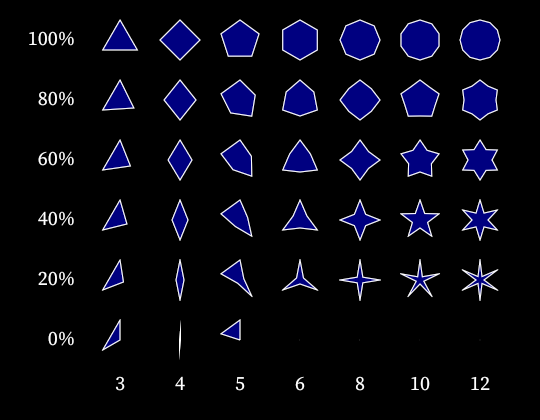
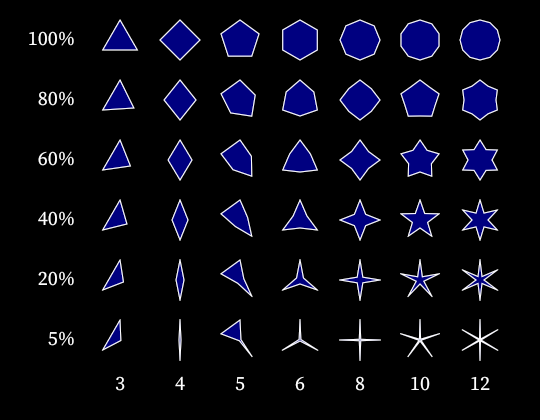
Update IVG documentation to version 3 and revise examples
Updated all code examples and references in the IVG documentation (HTML and Markdown) from IVG-2 to IVG-3. Clarified the differences between IVG-1 and IVG-2, and made minor corrections to example code and descriptions. Also updated the starExample.png image.

diff --git a/docs/IVG Documentation.html b/docs/IVG Documentation.html
@@ -244,7 +244,7 @@ and skewing.</p>
 <p>To give you a better idea of how <em>IVG</em> works, here’s an
 example of a simple source code that creates a smiley face:</p>
 <pre><code>// IVG and ImpD version.
-format IVG-2 requires:ImpD-1
+format IVG-3 requires:ImpD-1
 
 // Set the canvas bounds to 400x400 pixels.
 bounds 0,0,400,400
@@ -282,14 +282,14 @@ to create dynamic and interactive graphics.</p>
 <p>The <em>ImpD format</em> used in this documentation is
 <code>IVG-2</code>. Therefore, the <code>format</code> instruction
 should be as follows:</p>
-<pre><code>format IVG-2 requires:ImpD-1</code></pre>
+<pre><code>format IVG-3 requires:ImpD-1</code></pre>
 <p>Notice that <em>ImpD</em> is case-insensitive, but in this document,
 we follow a convention where we have written “directives” (defining
 settings, etc.) in lowercase and drawing instructions in uppercase.</p>
 <h2 id="ivg-1-vs-ivg-2">IVG-1 vs IVG-2</h2>
-<p><code>IVG-1</code> covers core vector drawing, styling, text, and
-fonts. <code>IVG-2</code> extends the format with raster image support
-through <code>define image</code> and <code>IMAGE</code>.</p>
+<p><code>IVG-1</code> covers core vector drawing and styling.
+<code>IVG-2</code> adds text, fonts, and raster image support through
+<code>define image</code> and <code>IMAGE</code>.</p>
 <p>The interpreter processes both versions identically, but readers that
 only understand <code>IVG-1</code> will reject documents marked
 <code>IVG-2</code>.</p>
@@ -371,7 +371,7 @@ executing all transformations, resulting in efficient performance.
 However, it is important to note that large rescales may result in low
 image quality.</p>
 <p>Demonstration:</p>
-<pre><code>format IVG-2 requires:ImpD-1
+<pre><code>format IVG-3 requires:ImpD-1
 bounds 0,0,340,300
 options aa-gamma:1.5
 
@@ -458,7 +458,7 @@ PATH [move-to 20,20; bezier-to 40,20 80,60 100,80]</code></pre>
 <pre><code>PATH [move-to 20,20; arc-to 120,20 40,40]
 PATH [move-to 60,60; arc-sweep 60,100 180]</code></pre>
 <p>Using raw SVG data:</p>
-<pre><code>format IVG-2 requires:ImpD-1
+<pre><code>format IVG-3 requires:ImpD-1
 bounds 0,0,400,380
 
 // Wipe the canvas with a very dark purple
@@ -510,7 +510,7 @@ rounded corners. You specify the radius as a single value for all
 corners or as separate values for the x and y radius.</p></li>
 </ul>
 <p>Example:</p>
-<pre><code>format IVG-2 requires:ImpD-1
+<pre><code>format IVG-3 requires:ImpD-1
 bounds 0,0,300,80
 
 // Draw a dark blue rectangle.
@@ -545,7 +545,7 @@ for the star in degrees.</p></li>
 </ul>
 <p>This example shows the effect of varying the number of points and the
 proportion of <code>&lt;r2&gt;</code> to <code>&lt;r1&gt;</code>:</p>
-<pre><code>format IVG-2 requires:ImpD-1
+<pre><code>format IVG-3 requires:ImpD-1
 bounds 0,0,540,420
 options aa-gamma:1.5
 
@@ -562,7 +562,7 @@ counts = [3,4,5,6,8,10,12]
 
 // Loop through a list of &lt;r2&gt; to &lt;r1&gt; proportions.
 offset 60,0
-for r2 in:[100,80,60,40,20,0] [
+for r2 in:[100,80,60,40,20,5] [
     context [
         // Draw a label indicating the proportion on this row.
         TEXT at:15,45 $r2% anchor:right
@@ -609,7 +609,7 @@ next character would have been written.</p></li>
 <code>TEXT</code> draws a single line of text only.</p></li>
 </ul>
 <p>Demonstration:</p>
-<pre><code>FORMAT IVG-2 requires:ImpD-1
+<pre><code>FORMAT IVG-3 requires:ImpD-1
 options aa-gamma:1.5
 
 bounds 0,0,440,80
@@ -664,7 +664,7 @@ information. Note that <em>relative paint</em> is not allowed for this
 instruction.</li>
 </ul>
 <p>Example:</p>
-<pre><code>format IVG-2 requires:ImpD-1
+<pre><code>format IVG-3 requires:ImpD-1
 bounds 0,0,200,200
 
 // Wipe the full canvas with a radial rainbow gradient
@@ -691,7 +691,7 @@ properties, masks, transforms, and definitions are restored when the
 group ends.</p>
 <pre><code>context &lt;instructions&gt;</code></pre>
 <p>Demonstration:</p>
-<pre><code>format IVG-2 requires:ImpD-1
+<pre><code>format IVG-3 requires:ImpD-1
 bounds 0,0,300,300
 
 // Wipe the canvas with a gradient, to begin with.
@@ -769,7 +769,7 @@ they can be referred to by name and set with the <a
 href="#font"><code>font</code></a> directive, just like embedded
 fonts.</p>
 <p>Example:</p>
-<pre><code>format IVG-2 requires:ImpD-1
+<pre><code>format IVG-3 requires:ImpD-1
 
 // Embed a font called &quot;myEmbeddedFont&quot; with only 3 defined glyphs.
 define font myEmbeddedFont [
@@ -807,7 +807,7 @@ and https://en.wikipedia.org/wiki/Even-odd_rule. The default value is
 <code>non-zero</code>.</p></li>
 </ul>
 <p>Fill rule demonstration:</p>
-<pre><code>format IVG-2 requires:ImpD-1
+<pre><code>format IVG-3 requires:ImpD-1
 bounds 0,0,350,230
 
 // Setup style.
@@ -907,7 +907,7 @@ transparency.</p>
 <p>Initially, the pen (and font outline) is set to <code>none</code>,
 and the fill (and font color) to <code>#FF</code> (fully opaque).</p>
 <p>Demonstration:</p>
-<pre><code>format IVG-2 requires:ImpD-1
+<pre><code>format IVG-3 requires:ImpD-1
 bounds 0,0,310,320
 
 // Make a rotated striped background.
@@ -998,7 +998,7 @@ chosen with a formula that considers the current context transform, and
 the resolution is always an integer factor.</p></li>
 </ul>
 <p><code>aa-gamma</code> demonstration:</p>
-<pre><code>format IVG-2 requires:ImpD-1
+<pre><code>format IVG-3 requires:ImpD-1
 bounds 0,0,400,124
 
 // Draw a white rectangle on black background.
@@ -1025,7 +1025,7 @@ for gamma in:[0.6,0.7,0.8,0.9,1.0,1.2,1.5,2.0,3.0,4.0] [
 ]</code></pre>
 <p><img src="images/gammaDemo.png" /></p>
 <p><code>curve-quality</code> demonstration:</p>
-<pre><code>format IVG-2 requires:ImpD-1
+<pre><code>format IVG-3 requires:ImpD-1
 bounds 0,0,410,100
 WIPE white
 pen black
@@ -1043,7 +1043,7 @@ for quality in:[0.001 0.01 0.1 1.0 10.0] [
 ]</code></pre>
 <p><img src="images/curveQualityDemo.png" /></p>
 <p><code>pattern-resolution</code> demonstration:</p>
-<pre><code>format IVG-2 requires:ImpD-1
+<pre><code>format IVG-3 requires:ImpD-1
 bounds 0,0,320,100
 
 // Wipe the canvas with a dark grey color.
@@ -1116,7 +1116,7 @@ dash pattern at which the stroke begins.</p></li>
 </ul>
 <p>The initial pen is <code>none</code>. In other words, invisible.</p>
 <p>Demonstration of different stroke styles:</p>
-<pre><code>format IVG-2 requires:ImpD-1
+<pre><code>format IVG-3 requires:ImpD-1
 bounds 0,0,560,400
 
 // Wipe canvas and setup styles.
@@ -1218,7 +1218,7 @@ be used; it will be invisible.</p></li>
 predefined color names.</p></li>
 </ul>
 <p>Colors example:</p>
-<pre><code>format IVG-2 requires:ImpD-1
+<pre><code>format IVG-3 requires:ImpD-1
 bounds 0,0,500,380
 
 // Wipe canvas with a checkboard pattern and setup styles.
@@ -1300,7 +1300,7 @@ note that you must set the stops in ascending order of the
 <code>&lt;number&gt;</code> positions.</p></li>
 </ul>
 <p>Gradient demonstration:</p>
-<pre><code>format IVG-2 requires:IMPD-1
+<pre><code>format IVG-3 requires:IMPD-1
 bounds 0,0,500,500
 
 // Set font style.
@@ -1372,7 +1372,7 @@ transparency and 1 is full opacity. Alternatively, you can use
 hexadecimal values <code>#00</code> to <code>#FF</code>.</p></li>
 </ul>
 <p>Demonstration:</p>
-<pre><code>format IVG-2 requires:ImpD-1
+<pre><code>format IVG-3 requires:ImpD-1
 bounds 0,0,400,300
 
 // Light gray background.
@@ -1452,7 +1452,7 @@ the transformation. By default, the anchor point is the origin
 (0,0).</p></li>
 </ul>
 <p>Demonstration:</p>
-<pre><code>format IVG-2 requires:ImpD-1
+<pre><code>format IVG-3 requires:ImpD-1
 bounds 0,0,310,240
 
 wipe #403020

diff --git a/docs/IVG Documentation.md b/docs/IVG Documentation.md
@@ -49,7 +49,7 @@ strokes, as well as applying transformations like scaling, rotating, and skewing
 To give you a better idea of how _IVG_ works, here's an example of a simple source code that creates a smiley face:
 
 	// IVG and ImpD version.
-	format IVG-2 requires:ImpD-1
+	format IVG-3 requires:ImpD-1
 	
 	// Set the canvas bounds to 400x400 pixels.
 	bounds 0,0,400,400
@@ -84,15 +84,15 @@ It will cover how to use variables and control flow statements to create dynamic
 
 The _ImpD format_ used in this documentation is `IVG-2`. Therefore, the `format` instruction should be as follows:
 
-	format IVG-2 requires:ImpD-1
+	format IVG-3 requires:ImpD-1
 
 Notice that _ImpD_ is case-insensitive, but in this document, we follow a convention where we have written "directives"
 (defining settings, etc.) in lowercase and drawing instructions in uppercase.
 
 ## IVG-1 vs IVG-2
 
-`IVG-1` covers core vector drawing, styling, text, and fonts.
-`IVG-2` extends the format with raster image support through `define image` and `IMAGE`.
+`IVG-1` covers core vector drawing and styling.
+`IVG-2` adds text, fonts, and raster image support through `define image` and `IMAGE`.
 
 The interpreter processes both versions identically, but readers that only understand `IVG-1`
 will reject documents marked `IVG-2`.
@@ -174,7 +174,7 @@ it is important to note that large rescales may result in low image quality.
 
 Demonstration:
 
-	format IVG-2 requires:ImpD-1
+	format IVG-3 requires:ImpD-1
 	bounds 0,0,340,300
 	options aa-gamma:1.5
 	
@@ -272,7 +272,7 @@ Arcs:
 
 Using raw SVG data:
 
-	format IVG-2 requires:ImpD-1
+	format IVG-3 requires:ImpD-1
 	bounds 0,0,400,380
 
 	// Wipe the canvas with a very dark purple
@@ -335,7 +335,7 @@ Syntax:
 
 Example:
 
-	format IVG-2 requires:ImpD-1
+	format IVG-3 requires:ImpD-1
 	bounds 0,0,300,80
 	
 	// Draw a dark blue rectangle.
@@ -371,7 +371,7 @@ Both comma-separated and space-separated forms are accepted.
 
 This example shows the effect of varying the number of points and the proportion of `<r2>` to `<r1>`:
 
-	format IVG-2 requires:ImpD-1
+	format IVG-3 requires:ImpD-1
 	bounds 0,0,540,420
 	options aa-gamma:1.5
 	
@@ -438,7 +438,7 @@ Syntax:
 
 Demonstration:
 
-	FORMAT IVG-2 requires:ImpD-1
+	FORMAT IVG-3 requires:ImpD-1
 	options aa-gamma:1.5
 	
 	bounds 0,0,440,80
@@ -495,7 +495,7 @@ Syntax:
 
 Example:
 
-	format IVG-2 requires:ImpD-1
+	format IVG-3 requires:ImpD-1
 	bounds 0,0,200,200
 	
 	// Wipe the full canvas with a radial rainbow gradient
@@ -531,7 +531,7 @@ group ends.
 
 Demonstration:
 
-	format IVG-2 requires:ImpD-1
+	format IVG-3 requires:ImpD-1
 	bounds 0,0,300,300
 	
 	// Wipe the canvas with a gradient, to begin with.
@@ -607,7 +607,7 @@ application, as they can be referred to by name and set with the [`font`](#font)
 
 Example:
 
-	format IVG-2 requires:ImpD-1
+	format IVG-3 requires:ImpD-1
 	
 	// Embed a font called "myEmbeddedFont" with only 3 defined glyphs.
 	define font myEmbeddedFont [
@@ -645,7 +645,7 @@ The fill directive sets the fill style for subsequent drawing operations in the 
 
 Fill rule demonstration:
 
-	format IVG-2 requires:ImpD-1
+	format IVG-3 requires:ImpD-1
 	bounds 0,0,350,230
 	
 	// Setup style.
@@ -740,7 +740,7 @@ Initially, the pen (and font outline) is set to `none`, and the fill (and font c
 
 Demonstration:
 
-	format IVG-2 requires:ImpD-1
+	format IVG-3 requires:ImpD-1
 	bounds 0,0,310,320
 	
 	// Make a rotated striped background.
@@ -830,7 +830,7 @@ the current [context](#context).
 
 `aa-gamma` demonstration:
 
-	format IVG-2 requires:ImpD-1
+	format IVG-3 requires:ImpD-1
 	bounds 0,0,400,124
 	
 	// Draw a white rectangle on black background.
@@ -859,7 +859,7 @@ the current [context](#context).
 
 `curve-quality` demonstration:
 
-	format IVG-2 requires:ImpD-1
+	format IVG-3 requires:ImpD-1
 	bounds 0,0,410,100
 	WIPE white
 	pen black
@@ -880,7 +880,7 @@ the current [context](#context).
 
 `pattern-resolution` demonstration:
 
-	format IVG-2 requires:ImpD-1
+	format IVG-3 requires:ImpD-1
 	bounds 0,0,320,100
 	
 	// Wipe the canvas with a dark grey color.
@@ -953,7 +953,7 @@ The initial pen is `none`. In other words, invisible.
 
 Demonstration of different stroke styles:
 
-	format IVG-2 requires:ImpD-1
+	format IVG-3 requires:ImpD-1
 	bounds 0,0,560,400
 	
 	// Wipe canvas and setup styles.
@@ -1049,7 +1049,7 @@ specifying a color is as follows:
 
 Colors example:
 
-	format IVG-2 requires:ImpD-1
+	format IVG-3 requires:ImpD-1
 	bounds 0,0,500,380
 	
 	// Wipe canvas with a checkboard pattern and setup styles.
@@ -1126,7 +1126,7 @@ as in the [`pen`](#pen) and [`fill`](#fill) directives. The syntax for specifyin
 
 Gradient demonstration:
 
-	format IVG-2 requires:IMPD-1
+	format IVG-3 requires:IMPD-1
 	bounds 0,0,500,500
 	
 	// Set font style.
@@ -1188,7 +1188,7 @@ look like. You can select a solid color, a gradient of colors, or a pattern.
 
 Demonstration:
 
-	format IVG-2 requires:ImpD-1
+	format IVG-3 requires:ImpD-1
 	bounds 0,0,400,300
 	
 	// Light gray background.
@@ -1258,7 +1258,7 @@ The syntax for specifying a transformation is as follows:
 
 Demonstration:
 
-	format IVG-2 requires:ImpD-1
+	format IVG-3 requires:ImpD-1
 	bounds 0,0,310,240
 	
 	wipe #403020
